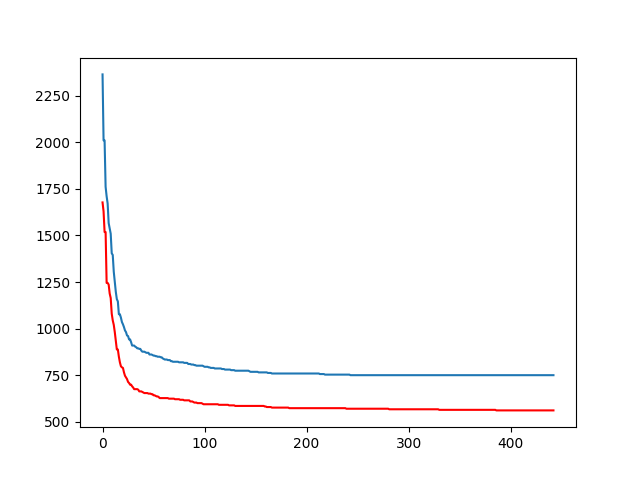
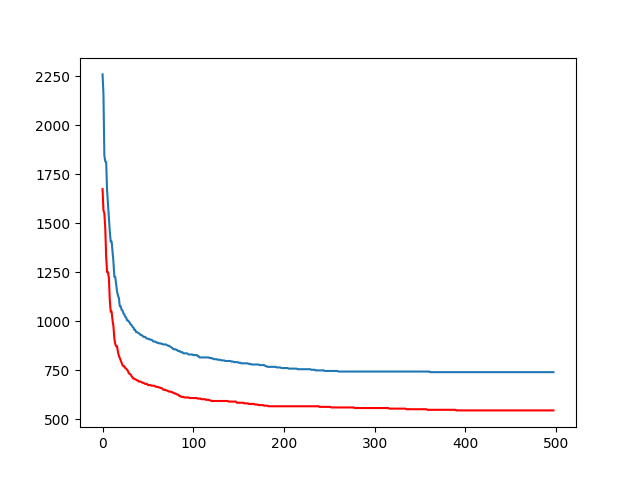
update

diff --git a/NodeDeepthEncode2.py b/NodeDeepthEncode2.py
@@ -19,7 +19,7 @@ Tx = 2
 Rx = 1
 q = 4
 NE = 25
-deltaT = 5000000000
+deltaT = 50
 INF = 9999999999
 MaxNumberOfFuncEvaluate = 100000 * 2
 
@@ -909,30 +909,30 @@ def mfea(databaseName, tasks, rmp=0.3, generation=100):
     scalarFitness = evaluateScalarFitness(factorialRank)
     individualBestCost = np.array([populationFactorialCost[idx][skillFactor[idx]] for idx in range(size)])
     # print(cntNumberOfFuncEvaluate)
-    if(t>=deltaT and t%deltaT == 0):
-        # 2 approximation
-        shortestPathTree = SPT(tasks[0].n+tasks[0].m+1, tasks[0].adjList)
-        # print(shortestPathTree)
-        # print("----------")
+    # if(t>=deltaT and t%deltaT == 0):
+    # 2 approximation
+    shortestPathTree = SPT(tasks[0].n+tasks[0].m+1, tasks[0].adjList)
+    # print(shortestPathTree)
+    # print("----------")
 
-        # 7 approximation
-        rn_num_node = tasks[1].n+tasks[1].m+1
-        mecat_rn_adjList = [[] for i in range(rn_num_node)]
-        for key,value in tasks[1].adjList.items():
-            mecat_rn_adjList[key] = value.copy() 
-        
-        make_graph_hat = graph_hat(mecat_rn_adjList,tasks[1].s,rn_num_node)
-        graph_hat_found,all_pair_shortest_path  = make_graph_hat.run() 
-        
-        make_last_tree = LAST(graph_hat_found,all_pair_shortest_path,tasks[1].s,tasks[1].m,rn_num_node)
-        last_tree = make_last_tree.run()
+    # 7 approximation
+    rn_num_node = tasks[1].n+tasks[1].m+1
+    mecat_rn_adjList = [[] for i in range(rn_num_node)]
+    for key,value in tasks[1].adjList.items():
+        mecat_rn_adjList[key] = value.copy() 
+    
+    make_graph_hat = graph_hat(mecat_rn_adjList,tasks[1].s,rn_num_node)
+    graph_hat_found,all_pair_shortest_path  = make_graph_hat.run() 
+    
+    make_last_tree = LAST(graph_hat_found,all_pair_shortest_path,tasks[1].s,tasks[1].m,rn_num_node)
+    last_tree = make_last_tree.run()
 
-        make_graph_hat_hat = graph_hat_hat(mecat_rn_adjList,last_tree,tasks[1].s,rn_num_node)
-        graph_hat_hat_found = make_graph_hat_hat.run()
+    make_graph_hat_hat = graph_hat_hat(mecat_rn_adjList,last_tree,tasks[1].s,rn_num_node)
+    graph_hat_hat_found = make_graph_hat_hat.run()
 
-        mecat_rn_graph = {}
-        for index,adj_list in enumerate(graph_hat_hat_found):
-            mecat_rn_graph[index] = adj_list.copy()
+    mecat_rn_graph = {}
+    for index,adj_list in enumerate(graph_hat_hat_found):
+        mecat_rn_graph[index] = adj_list.copy()
 
     # MECATRN_shortestPathTree = SPT(rn_num_node, mecat_rn_graph)
     # print(MECATRN_shortestPathTree)

diff --git a/RealVectorEncode.py b/RealVectorEncode.py
@@ -48,7 +48,7 @@ N = 200
 NE = 75
 uc = 2
 um = 5
-deltaT = 1500000000000
+deltaT = 150
 INF = 9999999999
 MaxNumberOfFuncEvaluate = 100000 * 2
 
@@ -750,31 +750,31 @@ def mfea(databaseName, tasks, rmp=0.3, generation=100):
     scalarFitness = evaluateScalarFitness(factorialRank)
     individualBestCost = np.array([populationFactorialCost[idx][skillFactor[idx]] for idx in range(size)])
     # print(cntNumberOfFuncEvaluate)
-    if(t>=deltaT and t%deltaT == 0):
+    # if(t>=deltaT and t%deltaT == 0):
     # 2 approximation
     
-        shortestPathTree = SPT(tasks[0].n+tasks[0].m+1, tasks[0].adjList)
+    shortestPathTree = SPT(tasks[0].n+tasks[0].m+1, tasks[0].adjList)
 
-        # 7 approximation
-        rn_num_node = tasks[1].n+tasks[1].m+1
-        mecat_rn_adjList = [[] for i in range(rn_num_node)]
-        for key,value in tasks[1].adjList.items():
-            mecat_rn_adjList[key] = value.copy() 
-        
-        make_graph_hat = graph_hat(mecat_rn_adjList,tasks[1].s,rn_num_node)
-        graph_hat_found,all_pair_shortest_path  = make_graph_hat.run() 
-        
-        make_last_tree = LAST(graph_hat_found,all_pair_shortest_path,tasks[1].s,tasks[1].m,rn_num_node)
-        last_tree = make_last_tree.run()
+    # 7 approximation
+    rn_num_node = tasks[1].n+tasks[1].m+1
+    mecat_rn_adjList = [[] for i in range(rn_num_node)]
+    for key,value in tasks[1].adjList.items():
+        mecat_rn_adjList[key] = value.copy() 
+    
+    make_graph_hat = graph_hat(mecat_rn_adjList,tasks[1].s,rn_num_node)
+    graph_hat_found,all_pair_shortest_path  = make_graph_hat.run() 
+    
+    make_last_tree = LAST(graph_hat_found,all_pair_shortest_path,tasks[1].s,tasks[1].m,rn_num_node)
+    last_tree = make_last_tree.run()
 
-        make_graph_hat_hat = graph_hat_hat(mecat_rn_adjList,last_tree,tasks[1].s,rn_num_node)
-        graph_hat_hat_found = make_graph_hat_hat.run()
+    make_graph_hat_hat = graph_hat_hat(mecat_rn_adjList,last_tree,tasks[1].s,rn_num_node)
+    graph_hat_hat_found = make_graph_hat_hat.run()
 
-        mecat_rn_graph = {}
-        for index,adj_list in enumerate(graph_hat_hat_found):
-            mecat_rn_graph[index] = adj_list.copy()
+    mecat_rn_graph = {}
+    for index,adj_list in enumerate(graph_hat_hat_found):
+        mecat_rn_graph[index] = adj_list.copy()
 
-        MECATRN_shortestPathTree = SPT(rn_num_node, mecat_rn_graph)
+    MECATRN_shortestPathTree = SPT(rn_num_node, mecat_rn_graph)
     # Loops
     for i in range(generation):
         if(cntNumberOfFuncEvaluate >= MaxNumberOfFuncEvaluate):
